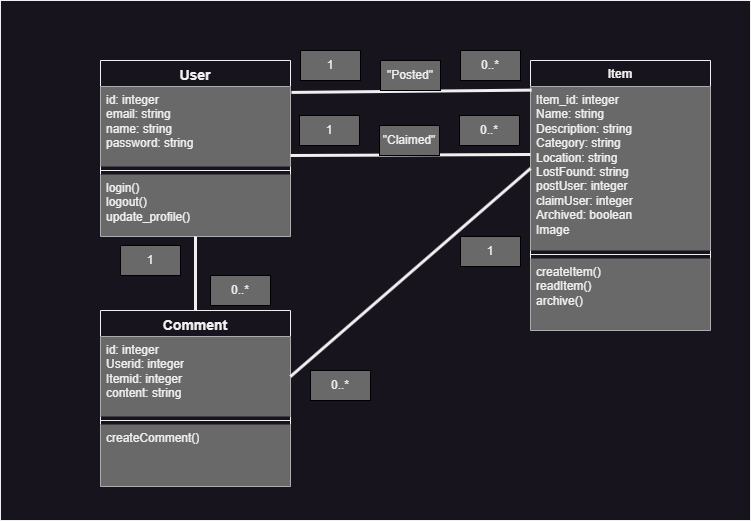
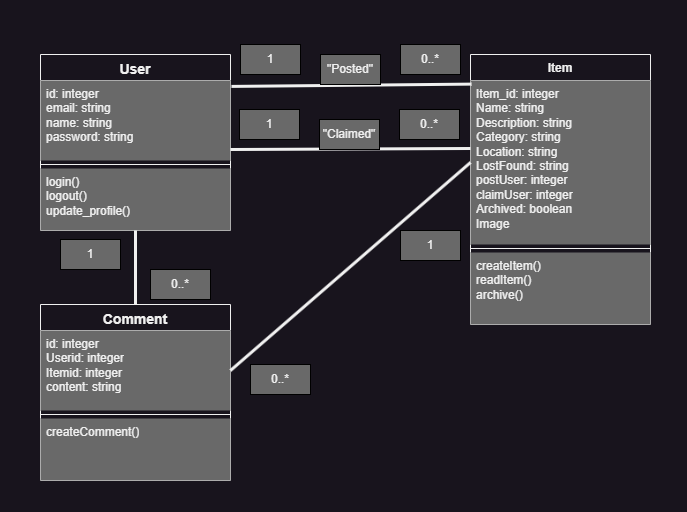
Added p10 Domain Model

diff --git a/css/main.css b/css/main.css
@@ -682,14 +682,6 @@ video {
   margin: auto;
 }
 
-.m-2 {
-  margin: 0.5rem;
-}
-
-.m-4 {
-  margin: 1rem;
-}
-
 .mx-12 {
   margin-left: 3rem;
   margin-right: 3rem;
@@ -730,14 +722,14 @@ video {
   margin-bottom: 8rem;
 }
 
-.my-5 {
-  margin-top: 1.25rem;
-  margin-bottom: 1.25rem;
-}
-
 .my-4 {
   margin-top: 1rem;
   margin-bottom: 1rem;
+}
+
+.my-5 {
+  margin-top: 1.25rem;
+  margin-bottom: 1.25rem;
 }
 
 .my-6 {
@@ -759,10 +751,6 @@ video {
 
 .mb-3 {
   margin-bottom: 0.75rem;
-}
-
-.mb-4 {
-  margin-bottom: 1rem;
 }
 
 .mb-5 {
@@ -827,10 +815,6 @@ video {
 
 .mt-\[8vh\] {
   margin-top: 8vh;
-}
-
-.mb-8 {
-  margin-bottom: 2rem;
 }
 
 .box-border {
@@ -958,6 +942,10 @@ video {
   max-width: 21rem;
 }
 
+.max-w-\[250px\] {
+  max-width: 250px;
+}
+
 .max-w-\[300px\] {
   max-width: 300px;
 }
@@ -972,14 +960,6 @@ video {
 
 .max-w-xs {
   max-width: 20rem;
-}
-
-.max-w-\[200px\] {
-  max-width: 200px;
-}
-
-.max-w-\[250px\] {
-  max-width: 250px;
 }
 
 .flex-1 {
@@ -1363,6 +1343,19 @@ video {
 .bg-yellow-400 {
   --tw-bg-opacity: 1;
   background-color: rgb(250 204 21 / var(--tw-bg-opacity));
+}
+
+.bg-\[\#\] {
+  background-color: #;
+}
+
+.bg-\[\#\#18141D\] {
+  background-color: ##18141D;
+}
+
+.bg-\[\#18141D\] {
+  --tw-bg-opacity: 1;
+  background-color: rgb(24 20 29 / var(--tw-bg-opacity));
 }
 
 .fill-\[\#141414\] {

diff --git a/calvin-finds.html b/calvin-finds.html
@@ -837,6 +837,24 @@
         </div>
       </div>
 
+      <!-- p10 Domain Model-->
+      <div class="drop-shadow-[0_10px_8px_rgba(0,0,0,0.05)] py-10 bg-[#18141D]">
+
+        <div class="max-w-[1200px] m-auto px-6 pb-10 grid grid-col-1 lg:grid-cols-1 ">
+          <!-- title -->
+          <div class="flex flex-row pt-3">
+            <p class="w-full justify-center inline-flex font-black font-[poppins] text-white font-RedHatDisplay text-2xl text-left">
+              Domain Model
+            </p>
+          </div>
+  
+          <div class="flex flex-col justify-center items-center col-span-1 md:col-span-1 row-span-2 transition sm:min-h-[150px] h-fit">
+            <img class="" src="/images/CalvinFinds/DomainModel.png" alt="">
+          </div>
+
+        </div>
+      </div>
+
     </section>
 
   <!-- Footer -->
